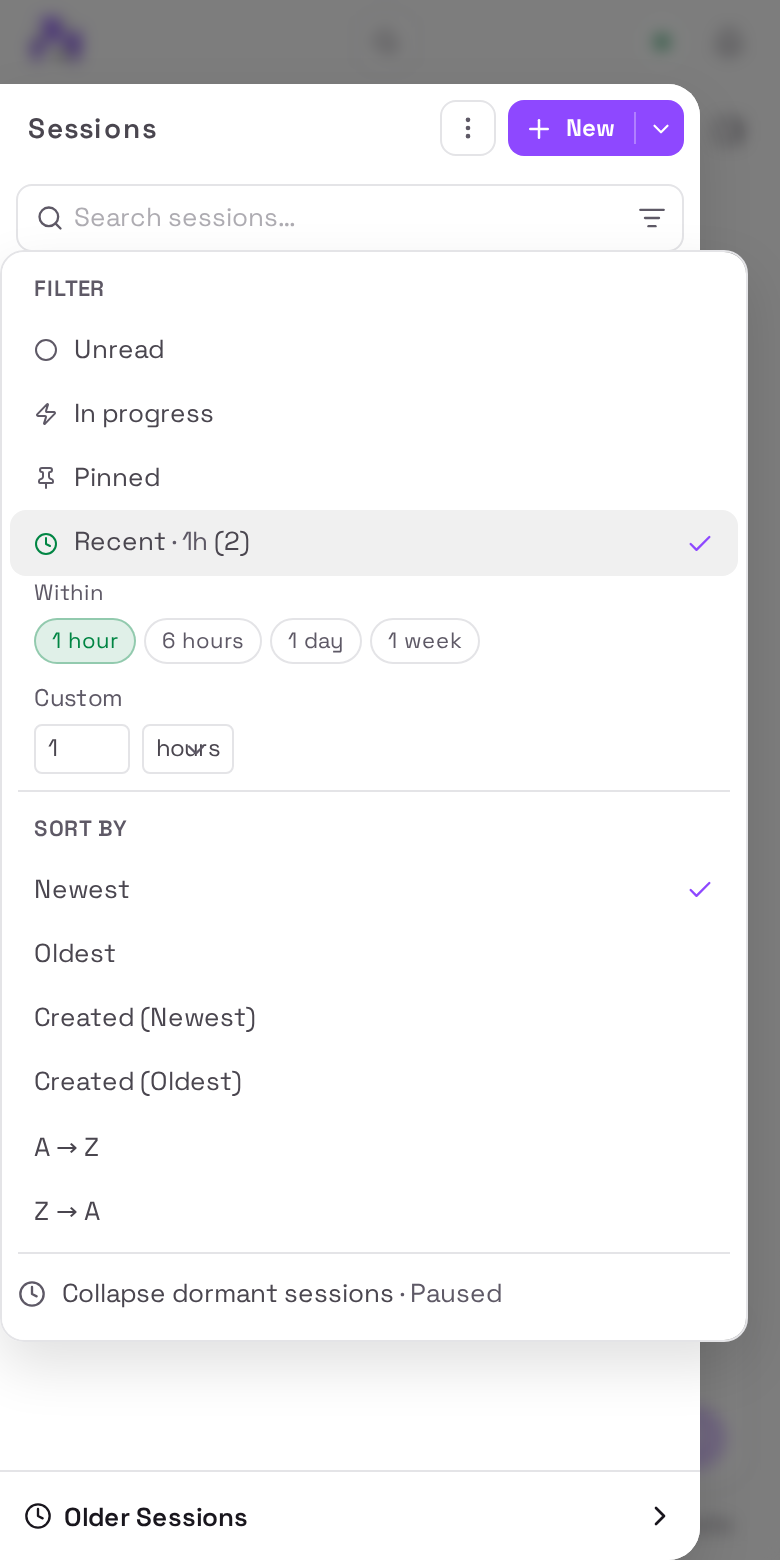
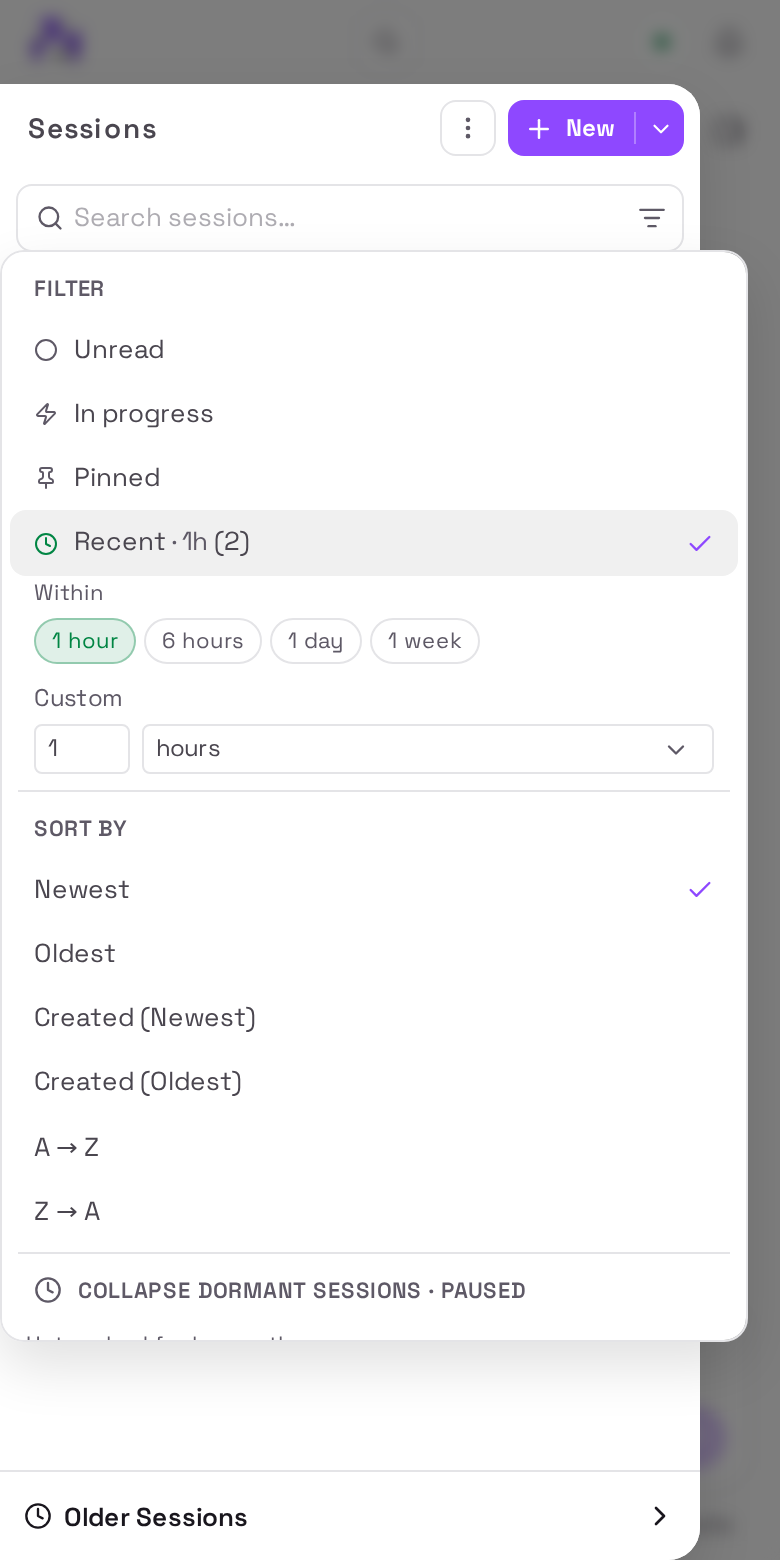
fix(chat): render the sidebar filter menu's pickers inline on a phone
The Recent window picker and the dormant-collapse threshold were nested
Radix submenus. Radix hardcodes a submenu to side="right" and its popper
shifts only on the cross axis, so a submenu never moves along the axis
that is short. At phone width neither side fits beside a menu that
already spans most of the screen: measured at a 390px viewport the Recent
flyout came out 249px wide with 192px of it past the right edge
(--radix-popper-available-width: 57px), and flip's bestFit fallback can
land it off the LEFT edge instead, which is what was reported. No width
or padding tuning recovers that.

On a phone the options now render inline inside the one open menu — the
Recent presets and custom amount under their row, the dormant-collapse
thresholds as chips rather than seven more rows, and the folders of "New
chat in folder" under a caption. The menu also gains a viewport width
cap: Radix sizes the popper wrapper to max-content, so an inline caption
sentence alone took the menu to 510px inside a 390px viewport.

Bringing the picker into view exposed a defect that had been hiding in
the off-screen flyout: NativeSelect draws its chevron as an overlay at
right-3, and `cn` is tailwind-merge, which cannot split a caller's `px-*`
shorthand — so the recency-unit control lost its right gutter and the
arrow painted over the word. The gutter is now an inline constant of the
component, independent of class ordering, and a caller's `style` lands on
[…]

Changed region(s): [[0.0308, 0.8, 0.6769, 0.8615]]

diff --git a/website/src/test/NativeSelect.chevronGutter.test.tsx b/website/src/test/NativeSelect.chevronGutter.test.tsx
@@ -1,0 +1,96 @@
+/**
+ * `NativeSelect` — the touch path of `SimpleSelect` — and the two things a caller
+ * must not be able to break.
+ *
+ * The chevron is drawn by this component as an absolutely-positioned overlay at
+ * `right-3` inside the wrapper, so the control below it needs a right gutter or
+ * the arrow paints straight over the selected text. `cn` is tailwind-merge and
+ * last-wins, so a caller passing a shorthand like `px-1.5` used to set `pr` too
+ * and take that gutter away — which is exactly what shipped on the phone
+ * sidebar's recency-unit picker ("hou⌄rs").
+ *
+ * The wrapper, not the `<select>`, is the layout box: the control is `w-full`
+ * inside it, so a caller's flex basis or min-width has no effect unless it lands
+ * on the wrapper. That also makes the two `SimpleSelect` paths agree, since the
+ * Radix path already puts `style` on its wrapper.
+ */
+import { describe, it, expect, vi } from 'vitest'
+import { render } from '@testing-library/react'
+import { NativeSelect, NativeSelectOption, CHEVRON_GUTTER } from '../components/ui/native-select'
+
+// The touch branch is what this file is about: on a mouse device SimpleSelect
+// renders the Radix popup instead and there is no native control to inspect.
+vi.mock('../hooks/useIsTouchDevice', () => ({ useIsTouchDevice: () => true }))
+
+import SimpleSelect from '../components/SimpleSelect'
+
+/** The rendered `<select>`, plus the positioning wrapper that owns the chevron. */
+function renderSelect(props: Record<string, unknown> = {}) {
+  const { container } = render(
+    <NativeSelect aria-label="unit" value="hours" onChange={() => {}} {...props}>
+      <NativeSelectOption value="hours">hours</NativeSelectOption>
+    </NativeSelect>,
+  )
+  const select = container.querySelector('select') as HTMLSelectElement
+  return { select, wrapper: select.parentElement as HTMLElement }
+}
+
+describe('NativeSelect', () => {
+  it('reserves the chevron gutter even when a caller sets its own padding', () => {
+    const { select } = renderSelect({ className: 'px-1.5 py-0.5 text-[12px] rounded' })
+    // Inline, so it does not depend on tailwind-merge splitting a `px-*`
+    // shorthand (it cannot) or on Tailwind's stylesheet order.
+    expect(select.style.paddingInlineEnd).toBe(CHEVRON_GUTTER)
+    // The caller's other classes still apply.
+    expect(select.className.split(/\s+/)).toContain('py-0.5')
+  })
+
+  it('reserves the same gutter with no caller className at all', () => {
+    const { select } = renderSelect()
+    expect(select.style.paddingInlineEnd).toBe(CHEVRON_GUTTER)
+  })
+
+  it('puts a caller style on the wrapper, where the layout box is', () => {
+    const { select, wrapper } = renderSelect({ wrapperStyle: { flex: '1 1 0%', minWidth: 0 } })
+    expect(wrapper.style.flexGrow).toBe('1')
+    expect(wrapper.style.minWidth).toBe('0')
+    // The control itself is w-full inside the wrapper; a flex rule there is inert.
+    expect(select.style.flexGrow).toBe('')
+  })
+
+  it('keeps the chevron inside the wrapper so the gutter and the arrow agree', () => {
+    const { wrapper } = renderSelect()
+    expect(wrapper.className.split(/\s+/)).toContain('relative')
+    const chevron = wrapper.querySelector('svg')
+    expect(chevron).not.toBeNull()
+    expect(chevron?.getAttribute('class') ?? '').toContain('right-3')
+  })
+})
+
+/**
+ * The routing itself, through the component the sidebar actually calls. Asserting
+ * `NativeSelect` alone would stay green if `SimpleSelect` handed `style` to the
+ * control instead of the wrapper — which is the bug that shipped.
+ */
+describe('SimpleSelect on a touch device', () => {
+  it('routes a caller style to the wrapper, not to the native control', () => {
+    const { container } = render(
+      <SimpleSelect
+        value="hours"
+        onChange={() => {}}
+        options={['minutes', 'hours', 'days']}
+        aria-label="unit"
+        className="px-1.5 py-0.5 text-[12px] rounded"
+        style={{ flex: '1 1 0%', minWidth: 0 }}
+      />,
+    )
+    const select = container.querySelector('select') as HTMLSelectElement
+    expect(select).not.toBeNull()
+    const wrapper = select.parentElement as HTMLElement
+
+    expect(wrapper.style.flexGrow).toBe('1')
+    expect(select.style.flexGrow).toBe('')
+    // …and the gutter survives the caller's `px-1.5` on the way through.
+    expect(select.style.paddingInlineEnd).toBe(CHEVRON_GUTTER)
+  })
+})

diff --git a/website/src/components/ui/native-select.tsx b/website/src/components/ui/native-select.tsx
@@ -21,14 +21,33 @@ import { cn } from '../../lib/utils'
  * NOT ported from shadcn: `NativeSelectOptGroup`. Nothing here has grouped
  * options, and an unused export is API to maintain for no caller.
  */
-const NativeSelect = React.forwardRef<HTMLSelectElement, React.ComponentPropsWithoutRef<'select'>>(
+interface NativeSelectProps extends React.ComponentPropsWithoutRef<'select'> {
+  /** Class names for the positioning wrapper (the layout box), not the control. */
+  wrapperClassName?: string
+  /** Inline style for the positioning wrapper — where a caller's sizing belongs. */
+  wrapperStyle?: React.CSSProperties
+}
+
+/**
+ * Right padding the control reserves for the chevron overlay: the arrow is 14px
+ * wide and pinned at `right-3` (12px), so 36px clears it with the same breathing
+ * room the old `pr-9` class gave. Exported so a test can assert the reservation
+ * without restating the number.
+ */
+export const CHEVRON_GUTTER = '2.25rem'
+
+const NativeSelect = React.forwardRef<HTMLSelectElement, NativeSelectProps>(
   // Named function expression rather than an arrow plus `NativeSelect.displayName = '…'`:
   // React infers the devtools name from the function, and the assignment form would
   // add a bare string literal that the i18n gate counts (eslint-rules/i18n-strict.js
   // re-surfaces literals the upstream rule exempts).
-  function NativeSelect({ className, children, ...props }, ref) {
+  function NativeSelect({ className, wrapperClassName, wrapperStyle, children, ...props }, ref) {
     return (
-      <div className="relative">
+      // The wrapper is the layout box: it owns the chevron's positioning context,
+      // so a caller's sizing (a flex basis, a min-width) has to land HERE to have
+      // any effect — on the `<select>` itself, which is `w-full` inside this div,
+      // a flex rule is inert.
+      <div className={cn('relative', wrapperClassName)} style={wrapperStyle}>
         <select
           ref={ref}
           // Mirrors ui/select.tsx's SelectTrigger so the two paths are the same
@@ -39,11 +58,21 @@ const NativeSelect = React.forwardRef<HTMLSelectElement, React.ComponentPropsWit
           // zooms the page when a form control under 16px takes focus, the same
           // reason the composer bumps to 16px on coarse pointers.
           className={cn(
-            'flex items-center justify-between w-full pl-3 pr-9 py-2 rounded-md text-base border border-border bg-bg-elevated text-text truncate',
+            'flex items-center justify-between w-full pl-3 py-2 rounded-md text-base border border-border bg-bg-elevated text-text truncate',
             'hover:border-border-strong transition-all cursor-pointer outline-none appearance-none',
             'focus-visible:border-accent disabled:opacity-40 disabled:pointer-events-none',
             className
           )}
+          // The gutter the chevron below sits in. It is a constant of THIS
+          // component (the arrow is always `right-3` and always 14px), not a
+          // caller's choice — and it is inline rather than a `pr-9` class because
+          // `cn` is tailwind-merge, which cannot split a caller's `px-*`
+          // shorthand: the two classes would both survive and which one won would
+          // depend on Tailwind's stylesheet order. A caller passing `px-1.5` is
+          // how the arrow came to paint over the text on the phone sidebar's
+          // recency-unit picker. `style` is the wrapper's on this component, so
+          // nothing of the caller's is being overwritten here.
+          style={{ paddingInlineEnd: CHEVRON_GUTTER }}
           {...props}
         >
           {children}

diff --git a/website/src/test/ChatSidebar.narrowDurationPickers.test.tsx b/website/src/test/ChatSidebar.narrowDurationPickers.test.tsx
@@ -131,6 +131,16 @@ async function openFilterMenu() {
   return screen.findByRole('menuitem', { name: /Recent/ })
 }
 
+/** Open the menu and turn the Recent filter ON, which is what reveals its
+ *  inline picker (a picker on an inactive filter would report an effect it is
+ *  not having). Returns the Recent row. */
+async function openFilterMenuWithRecentOn() {
+  const row = await openFilterMenu()
+  fireEvent.click(row)
+  await screen.findByText('Within')
+  return row
+}
+
 /** The filter menu is still mounted (its label row survives). */
 const filterMenuOpen = () => screen.queryAllByText('Filter').length > 0
 
@@ -140,7 +150,7 @@ afterEach(() => vi.clearAllMocks())
 describe('sessions filter menu — duration pickers at phone width', () => {
   it('renders the Recent window picker inline, not behind a submenu trigger', async () => {
     renderSidebar()
-    const recentRow = await openFilterMenu()
+    const recentRow = await openFilterMenuWithRecentOn()
 
     // Inline: no flyout to open, so the row must not advertise one.
     expect(recentRow.getAttribute('aria-haspopup')).toBeNull()
@@ -155,9 +165,19 @@ describe('sessions filter menu — duration pickers at phone width', () => {
     }
   })
 
-  it('commits a preset from the inline chip without dismissing the menu', async () => {
+  it('hides the window picker while the Recent filter is off', async () => {
     renderSidebar()
     await openFilterMenu()
+
+    // Picking a window does not enable the filter, so an always-visible picker
+    // would turn a chip green and change nothing in the list.
+    expect(screen.queryByText('Within')).not.toBeInTheDocument()
+    expect(screen.queryByRole('button', { name: '1 week' })).not.toBeInTheDocument()
+  })
+
+  it('commits a preset from the inline chip without dismissing the menu', async () => {
+    renderSidebar()
+    await openFilterMenuWithRecentOn()
 
     fireEvent.click(screen.getByRole('button', { name: '1 week' }))
 
@@ -174,6 +194,9 @@ describe('sessions filter menu — duration pickers at phone width', () => {
 
     const row = screen.getByTestId('stale-collapse-menu')
     expect(row.getAttribute('aria-haspopup')).toBeNull()
+    // A caption, not a menu row: nothing here is tappable (the chips carry the
+    // action), so it must not be styled or exposed as an item people can press.
+    expect(row.getAttribute('role')).not.toBe('menuitem')
     // "Off" plus the day presets, as chips rather than seven more menu rows.
     for (const label of ['Off', '1d', '2d', '7d']) {
       expect(screen.getByRole('button', { name: label })).toBeInTheDocument()

diff --git a/website/src/pages/ChatSidebar.tsx b/website/src/pages/ChatSidebar.tsx
@@ -5433,6 +5433,12 @@ function ChatSidebar({
                       // Inline: the row keeps its only job (toggle the filter) and
                       // the window options sit under it, one tap each. No chevron
                       // — there is nothing left to open.
+                      //
+                      // The picker shows only while the filter is ON. Picking a
+                      // window does not enable it, so an always-visible picker on
+                      // an inactive filter turns a chip green and changes nothing
+                      // in the list — a control that reports an effect it is not
+                      // having. Tapping the row enables the filter and reveals it.
                       return (
                         <Fragment key={filterDef.key}>
                           <DropdownMenuItem
@@ -5441,7 +5447,7 @@ function ChatSidebar({
                           >
                             {rowBody}
                           </DropdownMenuItem>
-                          <div className="px-2 pb-1">{picker}</div>
+                          {active && <div className="px-2 pb-1">{picker}</div>}
                         </Fragment>
                       )
                     }
@@ -5547,9 +5553,16 @@ function ChatSidebar({
                     // scannable and every option is one tap away.
                     return (
                       <>
-                        <div className="px-1 py-1.5 flex items-center gap-2 text-[13px]" data-testid="stale-collapse-menu">
+                        {/* A section caption, NOT a menu row: inline, there is
+                            nothing to tap here (the chips below carry the action),
+                            so styling it like the tappable rows above would invite
+                            a tap that does nothing. Matches FILTER / SORT BY. */}
+                        <DropdownMenuLabel
+                          className="text-[11px] uppercase tracking-[.04em] flex items-center gap-2"
+                          data-testid="stale-collapse-menu"
+                        >
                           {staleRowBody}
-                        </div>
+                        </DropdownMenuLabel>
                         {staleCaption}
                         <div className="flex flex-wrap gap-1 px-2 pb-1.5">
                           {STALE_COLLAPSE_PRESETS_MS.map(ms => (

diff --git a/website/src/components/SimpleSelect.tsx b/website/src/components/SimpleSelect.tsx
@@ -83,10 +83,10 @@ export default function SimpleSelect({ options, optionLabels, value, onChange, a
         id={id}
         aria-label={ariaLabel}
         disabled={disabled}
-        // On the Radix path `style` lands on the wrapper div; here it lands on the
-        // control itself, which is where a native form control expects it. No
-        // caller passes `style` today, so the two never diverge in practice.
-        style={style}
+        // `style` lands on the WRAPPER on both paths. It is layout intent (a flex
+        // basis, a min-width), and on this path the `<select>` is `w-full` inside
+        // the wrapper — a flex rule placed on it is simply inert.
+        wrapperStyle={style}
         className={className}
         value={toRadix(value)}
         onChange={e => {
